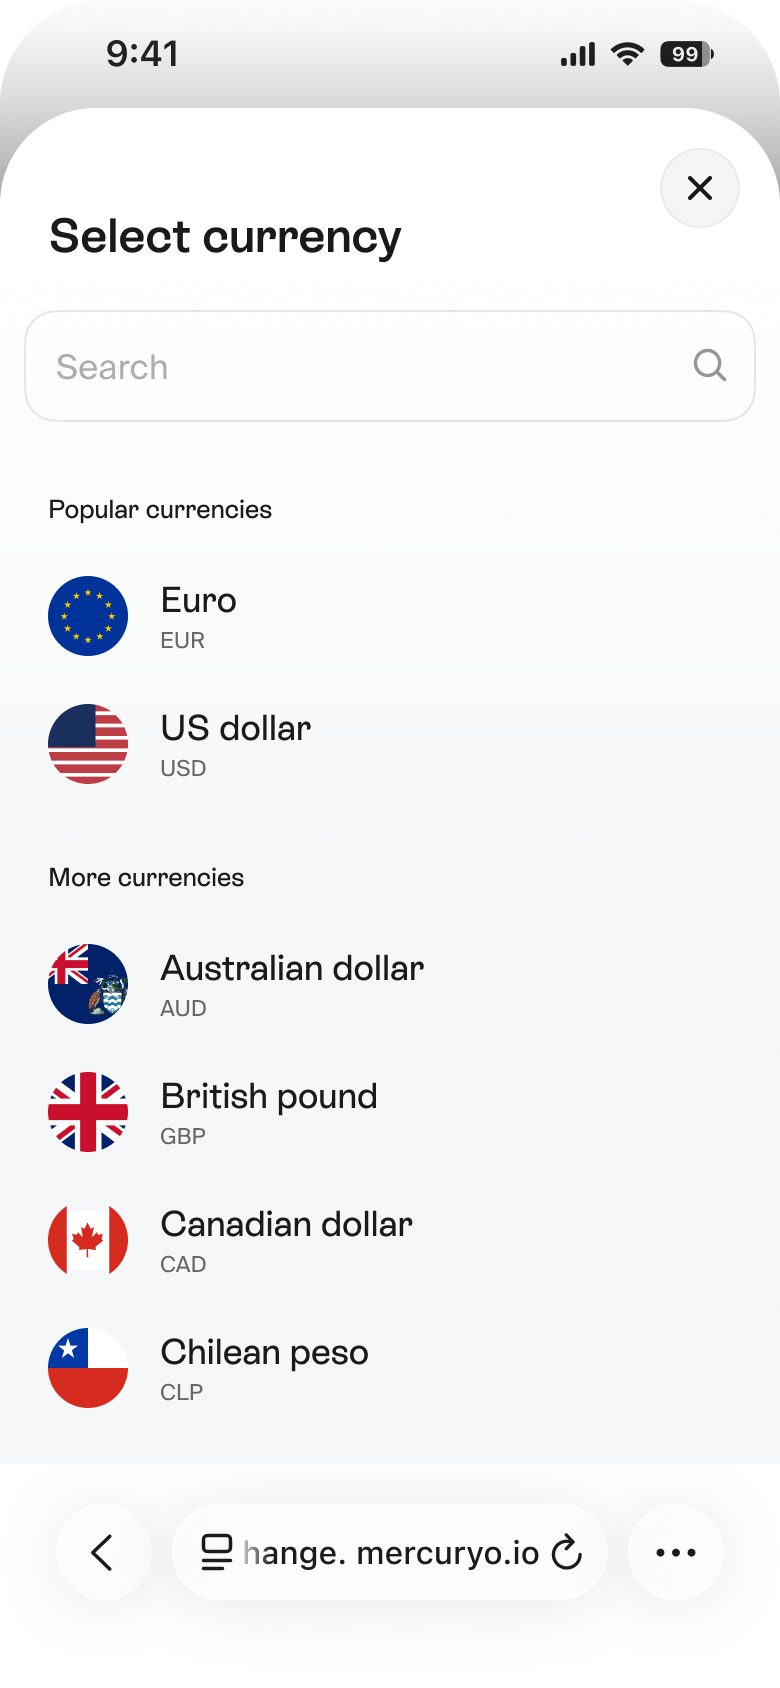
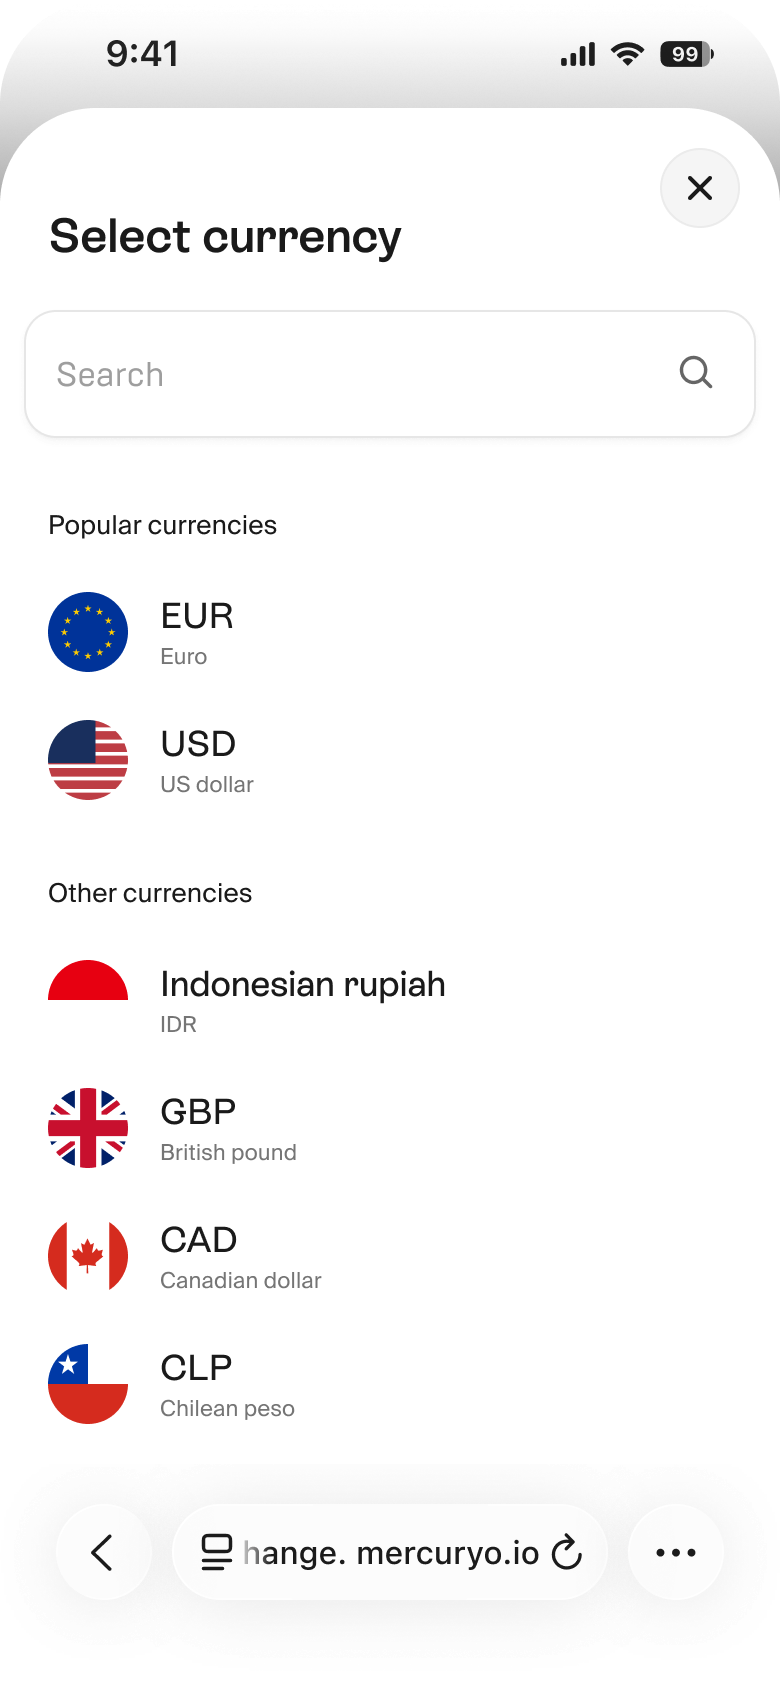
Fix IDR currency list and amount clipping

diff --git a/converter-mobile/buy.html b/converter-mobile/buy.html
@@ -7,7 +7,7 @@
       content="width=device-width, initial-scale=1, viewport-fit=cover"
     />
     <title>Converter Buy Page</title>
-    <link rel="stylesheet" href="./buy.css?v=20260326-2004" />
+    <link rel="stylesheet" href="./buy.css?v=20260326-2021" />
   </head>
   <body>
     <main class="app-shell" data-stage="ready">
@@ -200,15 +200,7 @@
               <img class="currency-modal__image" src="./assets/screens/select-currency.png" alt="Currency picker screen" />
               <button class="currency-modal__close-hitbox" type="button" data-role="currency-modal-close" aria-label="Close currency picker"></button>
               <button class="currency-modal__currency-hitbox currency-modal__currency-hitbox--eur" type="button" data-role="currency-option" data-currency="EUR" aria-label="Select Euro"></button>
-              <button class="currency-modal__currency-hitbox currency-modal__currency-hitbox--idr" type="button" data-role="currency-option" data-currency="IDR" aria-label="Select Indonesian Rupiah">
-                <span class="currency-modal__row currency-modal__row--idr" aria-hidden="true">
-                  <span class="currency-modal__row-icon currency-modal__row-icon--idr"></span>
-                  <span class="currency-modal__row-copy">
-                    <span class="currency-modal__row-title">Indonesian rupiah</span>
-                    <span class="currency-modal__row-subtitle">IDR</span>
-                  </span>
-                </span>
-              </button>
+              <button class="currency-modal__currency-hitbox currency-modal__currency-hitbox--idr" type="button" data-role="currency-option" data-currency="IDR" aria-label="Select Indonesian Rupiah"></button>
             </div>
           </section>
 
@@ -287,6 +279,6 @@
       </section>
     </main>
 
-    <script src="./buy.js?v=20260326-2004"></script>
+    <script src="./buy.js?v=20260326-2021"></script>
   </body>
 </html>

diff --git a/converter-mobile/buy.css b/converter-mobile/buy.css
@@ -416,7 +416,7 @@ body {
 .converter-field--get .amount-editor {
   flex: 1;
   min-width: 0;
-  max-width: calc(100% - 142px);
+  max-width: calc(100% - 133px);
 }
 
 .converter-field--get .amount-display {
@@ -580,7 +580,7 @@ body {
 }
 
 .converter-field--pay .amount-editor {
-  max-width: calc(100% - 140px);
+  max-width: calc(100% - 133px);
 }
 
 .converter-field--pay .asset-selector {
@@ -1451,54 +1451,7 @@ body {
   right: 20px;
   top: 448px;
   height: 72px;
-  display: flex;
-  align-items: center;
-  text-align: left;
   z-index: 2;
-}
-
-.currency-modal__row {
-  display: flex;
-  align-items: center;
-  gap: 16px;
-  width: 100%;
-  min-height: 72px;
-  padding: 0 22px;
-  background: #ffffff;
-  position: relative;
-  z-index: 1;
-}
-
-.currency-modal__row-icon {
-  width: 48px;
-  height: 48px;
-  flex: 0 0 48px;
-  border-radius: 50%;
-  background: linear-gradient(180deg, #ef0016 0 50%, #ffffff 50% 100%);
-  box-shadow: inset 0 0 0 1px rgba(0, 0, 0, 0.04);
-}
-
-.currency-modal__row-copy {
-  display: flex;
-  flex-direction: column;
-  gap: 3px;
-  min-width: 0;
-}
-
-.currency-modal__row-title {
-  color: #1a1a1d;
-  font-family: "ES Rebond Grotesque", -apple-system, BlinkMacSystemFont, sans-serif;
-  font-size: 22px;
-  line-height: 28px;
-  font-weight: 500;
-}
-
-.currency-modal__row-subtitle {
-  color: #7c7d83;
-  font-family: "Suisse Intl", -apple-system, BlinkMacSystemFont, sans-serif;
-  font-size: 15px;
-  line-height: 20px;
-  font-weight: 400;
 }
 
 .currency-modal__image {

diff --git a/converter-mobile/buy.js b/converter-mobile/buy.js
@@ -222,8 +222,8 @@ function updateFiatDecimalPlaceholder() {
   const measureWidth = fiatMeasure.getBoundingClientRect().width;
   const editorWidth = fiatInput.getBoundingClientRect().width;
   const placeholderWidth = fiatDecimalPlaceholder.getBoundingClientRect().width || placeholder.length * 22;
-  const maxLeft = Math.max(0, editorWidth - placeholderWidth - 4);
-  const offset = Math.max(0, Math.min(measureWidth + 3, maxLeft));
+  const maxLeft = Math.max(0, editorWidth - placeholderWidth - 2);
+  const offset = Math.max(0, Math.min(measureWidth + 8, maxLeft));
   fiatDecimalPlaceholder.style.setProperty("--decimal-offset", `${offset}px`);
 }
 
